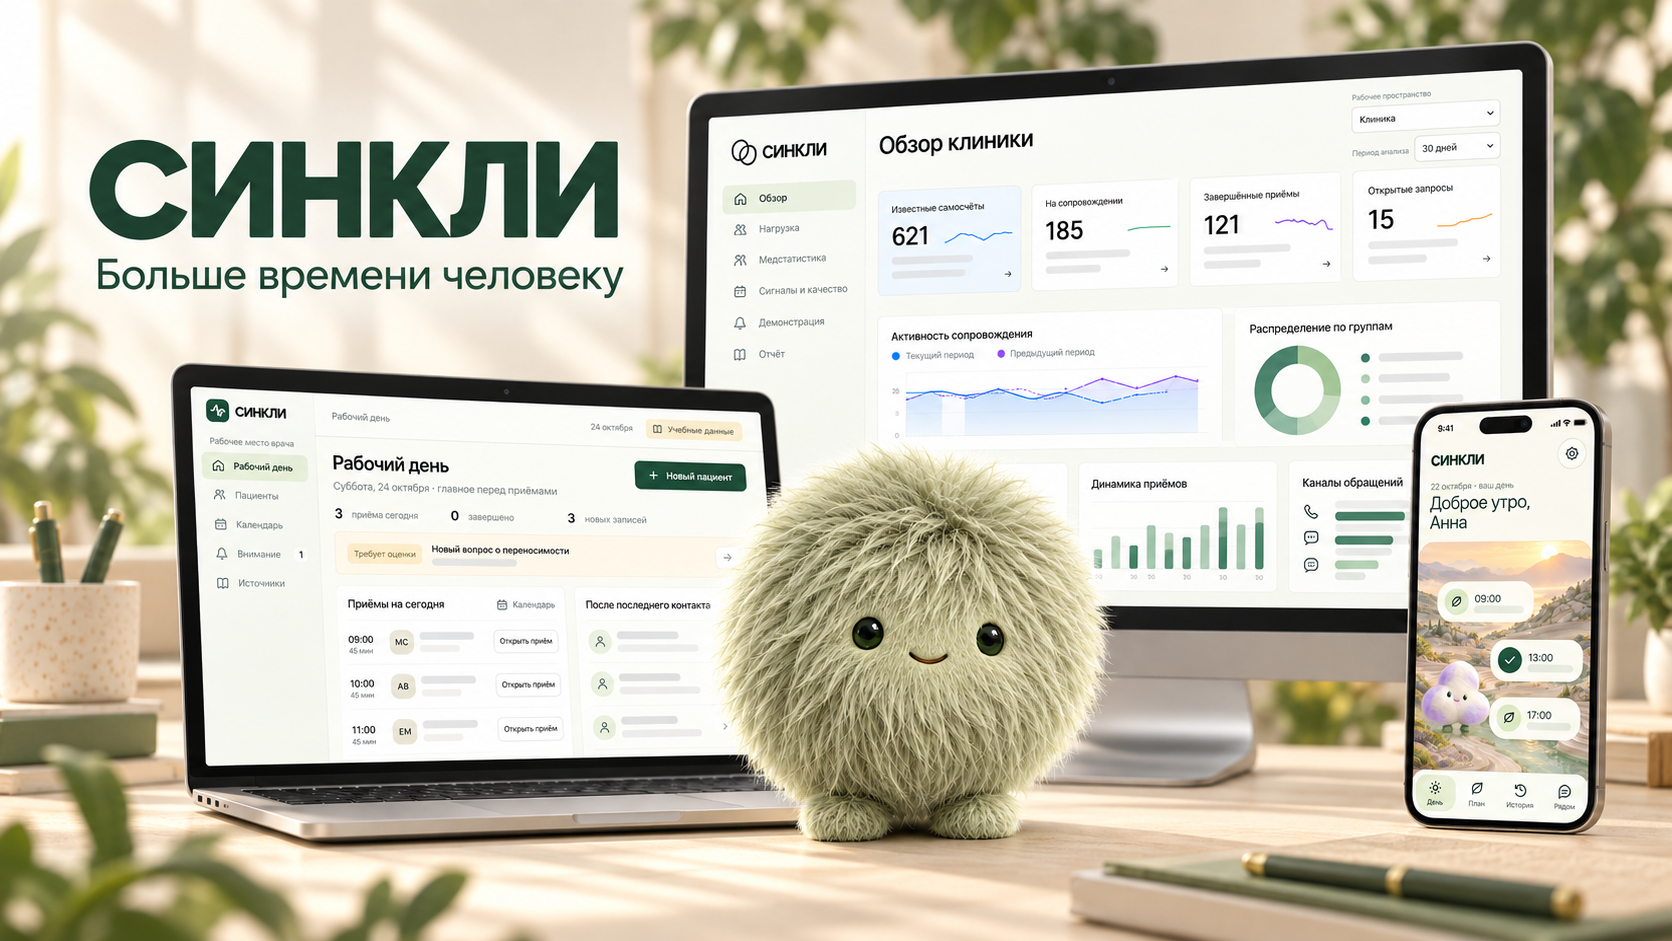
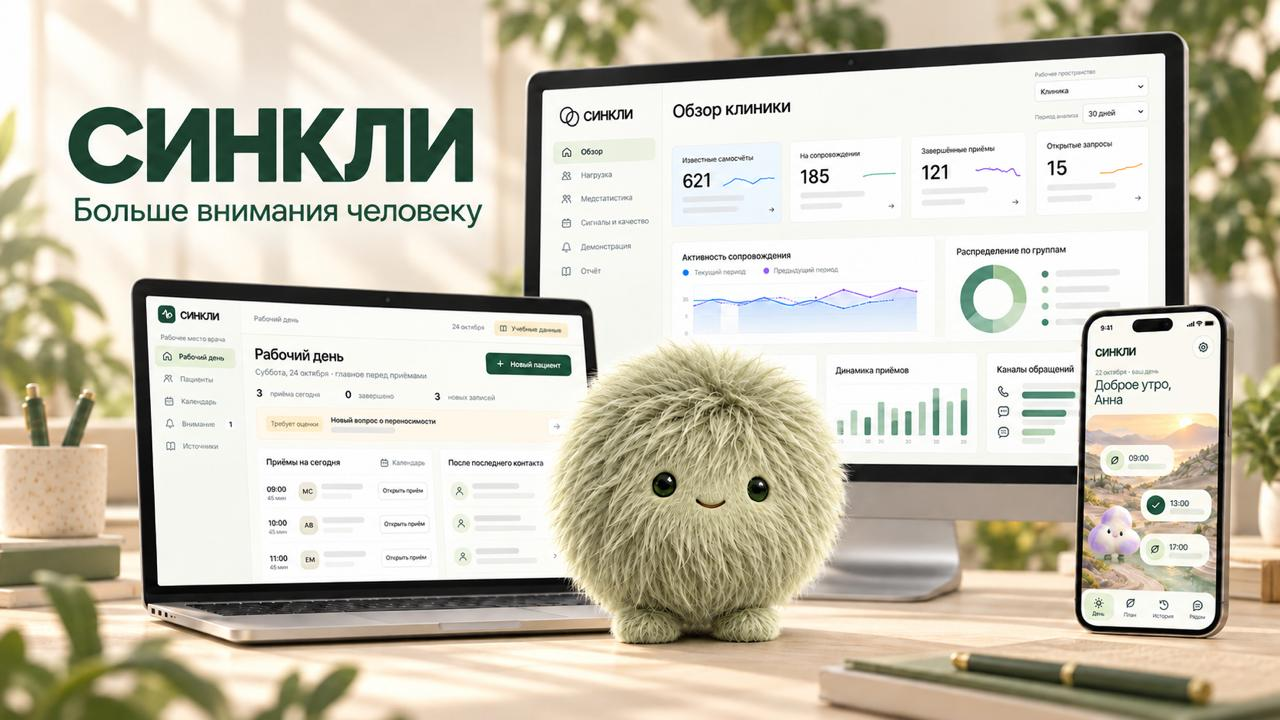
docs: заменить обложку README (#65)

diff --git a/README.md b/README.md
@@ -1,6 +1,6 @@
 # Синкли
 
-![Синкли — больше времени человеку](site/assets/product/readme-cover.png)
+![Синкли – больше внимания человеку](site/assets/product/readme-cover.png)
 
 **Синкли** – цифровая экосистема для взаимодействия врача и пациента, созданная для кейс-чемпионата «Клинический компас 2026».
 
